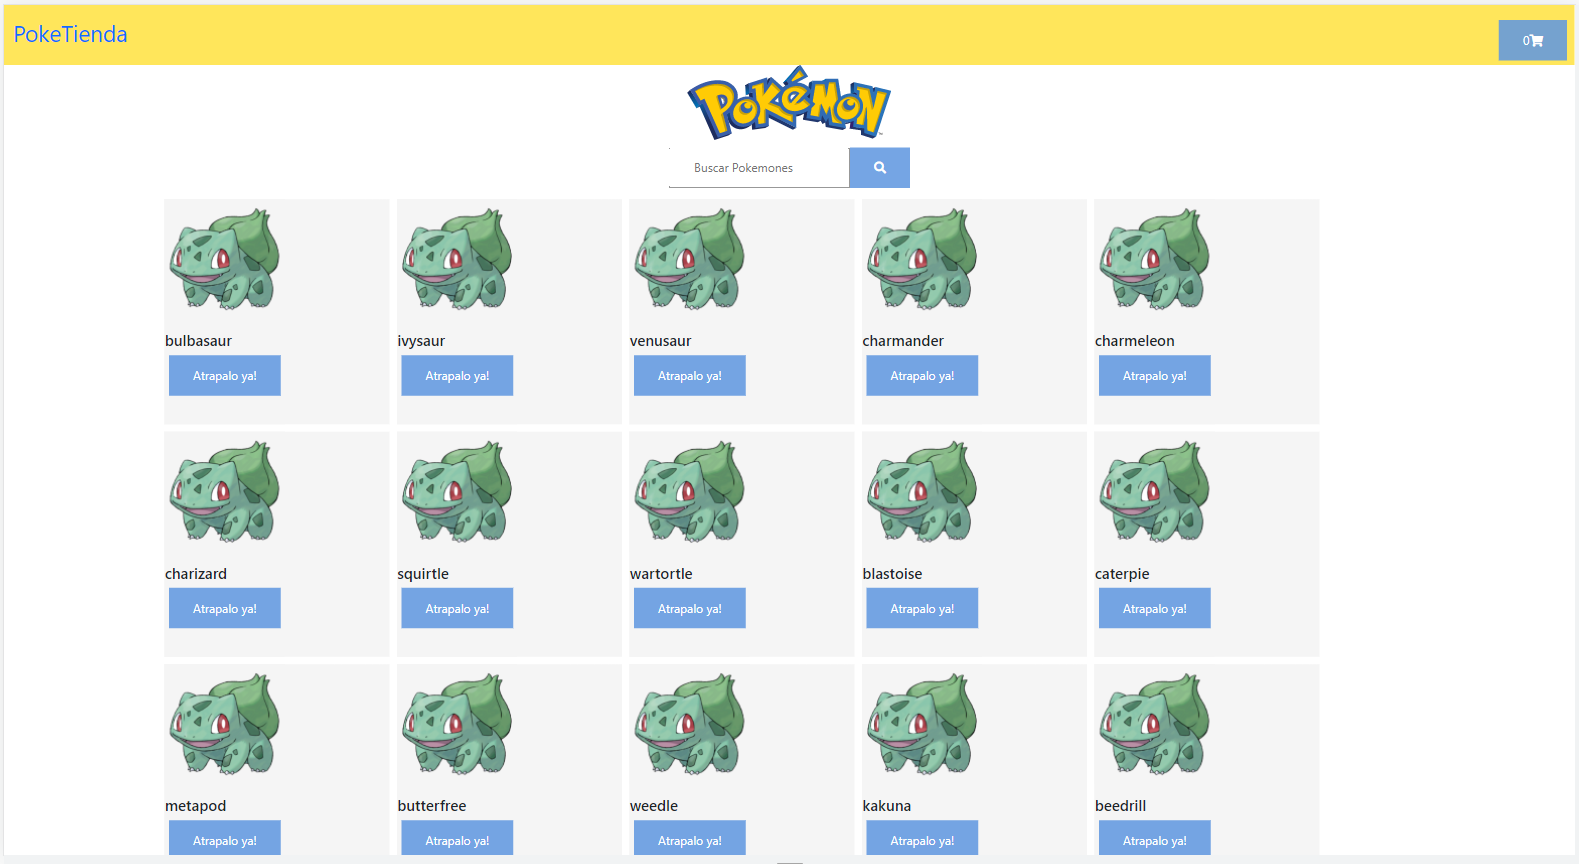
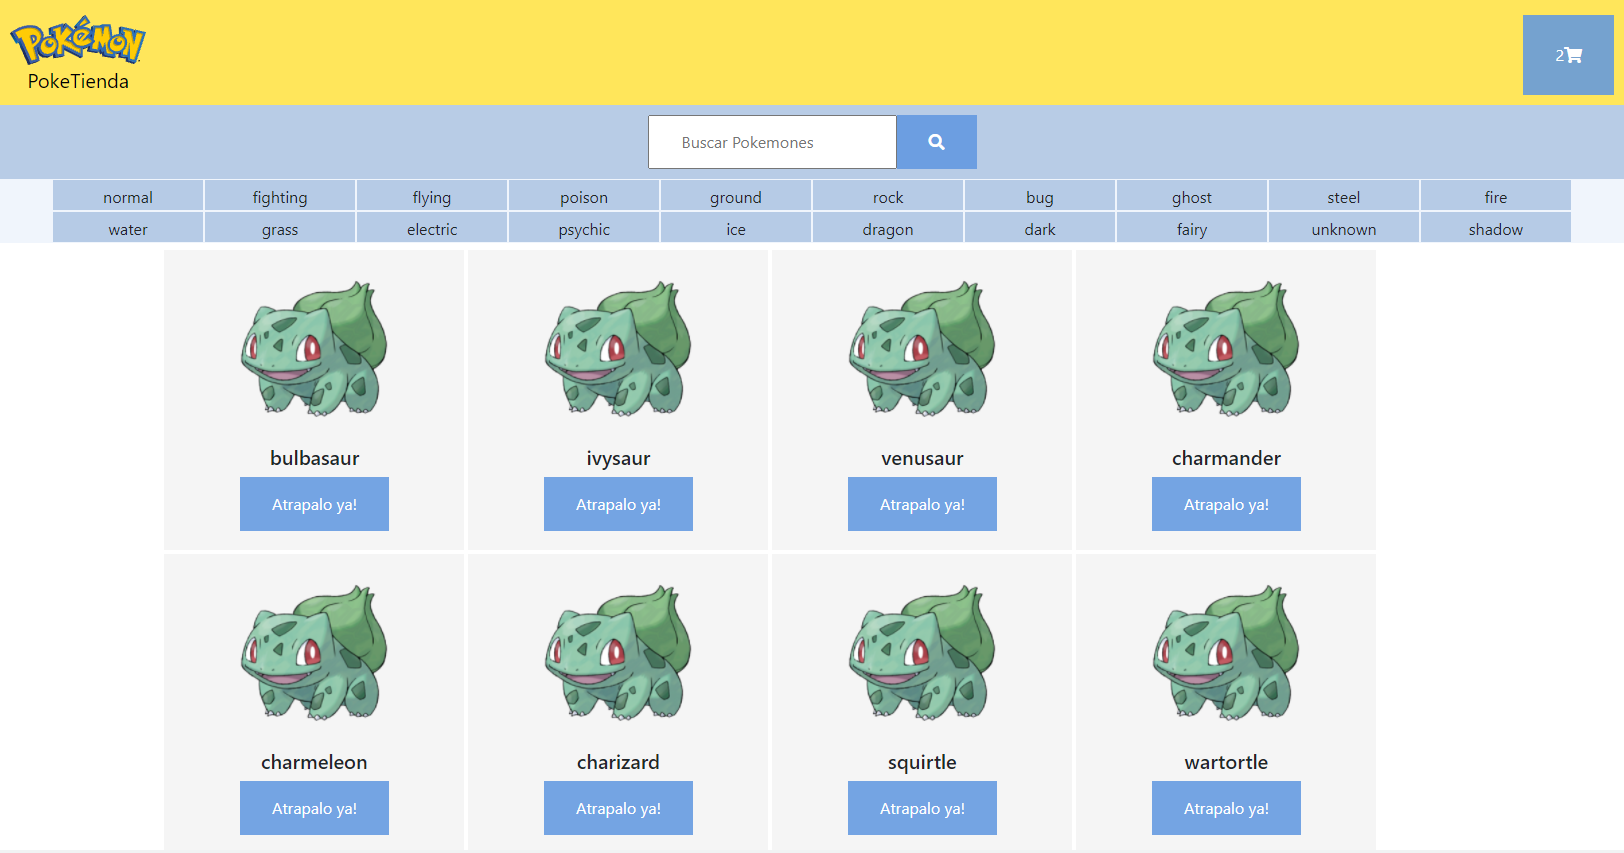
PokeTienda V06 correcciones de generales

diff --git a/src/styles/home.scss b/src/styles/home.scss
@@ -1,17 +1,24 @@
-
-.logo {
-    display: table;
-    margin: 0 auto;
-    padding-top: 10px;
-    padding-bottom: 10px;
-}
-
 .superior{
     margin: auto;
     width: 100%;
     justify-content: center;
     background-color:rgba(174, 196, 226, 0.87);
     display: block;
+}
+.categorias{
+    margin: auto;
+    width: 100%;
+    background-color:rgba(238, 244, 252, 0.87);
+    display: flex;
+    align-items: center;
+    justify-content: center;
+}
+.categoriasgeneral{
+        display: flex;
+        align-items: center;
+        justify-content: center;
+        flex-wrap: wrap;
+        float: left;
 }
 
 .pokemones{
@@ -40,6 +47,20 @@
         justify-content: center;
         text-align: center;
     }
+    .categoriasecciones {
+        width:150px;
+        height:30px;
+        padding: 5px;
+        margin: 1px;
+        margin-bottom: 1px;
+        background-color: rgba(174, 196, 226, 0.87);
+        flex-wrap: wrap;
+        float:left;
+        display: flex;
+        align-items: center;
+        justify-content: center;
+        text-align: center;   
+    }
 }
 /* For mobile and phones: */
 @media(max-width:768px){
@@ -57,16 +78,35 @@
         justify-content: center;
         text-align: center;   
    }
+   .categoriasecciones {
+    width:150px;
+    height:30px;
+    padding: 5px;
+    margin: 1px;
+    margin-bottom: 1px;
+    background-color: rgba(174, 196, 226, 0.87);
+    flex-wrap: wrap;
+    float:left;
+    display: flex;
+    align-items: center;
+    justify-content: center;
+    text-align: center;   
 }
 
-
+}
+.seccionestexto{
+    font-size: 16px;
+    display: flex;
+        align-items: center;
+        justify-content: center;
+        text-align: center;
+}
 .busqueda {
     display: flex;
     align-items: center;
     justify-content: center;
     margin: 0 auto;
-    margin-top: 10px;
-    margin-bottom: 10px;
+    padding-top: 10px;
     padding-bottom: 10px;
 }
 .casilla{

diff --git a/src/js/views/home.js b/src/js/views/home.js
@@ -1,30 +1,28 @@
 import React from "react";
 import "../../styles/home.scss";
 import { Pokemones } from "../views/pokemones";
+import { Categorias } from "../views/categorias";
 /* import { Search } from "../component/search"; */
 
 export const Home = () => {
 	return (
-		<div className="superior">
-			<div className="logo">
-				<img
-					className=""
-					src="https://upload.wikimedia.org/wikipedia/commons/9/98/International_Pok%C3%A9mon_logo.svg"
-					height="100px"
-				/>
+		<div>
+			<div className="superior">
+				<div className="busqueda">
+					<input
+						className="casilla"
+						type="search"
+						placeholder="Buscar Pokemones"
+						/* onChange={handleChange} */
+					/>
+					<button type="submit" className="boton">
+						<i className="fas fa-search" />
+					</button>
+				</div>
 			</div>
-			<div className="busqueda">
-				<input
-					className="casilla"
-					type="search"
-					placeholder="Buscar Pokemones"
-					/* onChange={handleChange} */
-				/>
-				<button type="submit" className="boton">
-					<i className="fas fa-search" />
-				</button>
+			<div className="categorias">
+				<Categorias />
 			</div>
-
 			<div className="pokemones">
 				<Pokemones />
 			</div>

diff --git a/src/js/component/navbar.js b/src/js/component/navbar.js
@@ -10,14 +10,21 @@ export const Navbar = () => {
 		<nav className="barra-superior">
 			<div className="nav align-left">
 				<Link to="/">
+					<div className="logo">
+						<img
+							className=""
+							src="https://upload.wikimedia.org/wikipedia/commons/9/98/International_Pok%C3%A9mon_logo.svg"
+							height="50px"
+						/>
+					</div>
 					<span className="titulo">PokeTienda</span>
 				</Link>
 			</div>
 
-			<div className="align-right">
+			<div className="carrodecompra align-right">
 				<Link className="cart-button dropdown">
 					<button
-						className="boton"
+						className="collapsible boton"
 						type="button"
 						id="dropdownMenuButton"
 						data-toggle="dropdown"
@@ -26,10 +33,10 @@ export const Navbar = () => {
 						{store.shoppingCart.length}
 						<i className="fas fa-shopping-cart" />
 					</button>
-					<div className="cart-product">
+					<div className="content cart-product">
 						{store.shoppingCart.map((item, index) => {
 							return (
-								<a key={index} className="" href="#">
+								<a key={index} className="content" href="#">
 									{item}
 									<button
 										className="boton align-left"

diff --git a/src/styles/index.scss b/src/styles/index.scss
@@ -1,25 +1,3 @@
-/* For desktop: */
-/* @media(min-width:768px){
-    .responsive{
-        margin: 0 auto;
-        width: 90%;
-        margin-top: 5px;
-        justify-content: center;
-        background-color:whitesmoke;
-        display: block;
-    }
-} */
-/* For mobile and phones: */
-/* @media(max-width:768px){
-    .responsive{
-        margin: auto;
-        width: 90%;
-        margin-top: 5px;
-        justify-content: center;
-        background-color:whitesmoke;
-        display: block;
-    }
-} */
 .align-left{
     display:flex;
     flex-wrap: wrap;
@@ -45,8 +23,9 @@ A:visited {
     text-decoration: none 
 }
 .titulo{
-    font-size: 30px;
-    margin-left: 2px;
+    font-size: 20px;
+    display: flex;
+    justify-content: center;
 }
 .boton{
     background-color: rgba(96, 152, 224, 0.87);
@@ -55,6 +34,5 @@ A:visited {
     padding: 15px 32px;
     text-align: center;
     text-decoration: none;
-    display: inline-block;
     font-size: 16px;
 }

diff --git a/src/js/store/flux.js b/src/js/store/flux.js
@@ -2,7 +2,9 @@ const getState = ({ getStore, getActions, setStore }) => {
 	return {
 		store: {
 			pokemonList: [],
+			typeList: [],
 			urlPokemon: "https://pokeapi.co/api/v2/pokemon/",
+			urlType: "https://pokeapi.co/api/v2/type/",
 			shoppingCart: [],
 			demo: [
 				{
@@ -39,6 +41,19 @@ const getState = ({ getStore, getActions, setStore }) => {
 				fetch(URL, OBJCONFIG)
 					.then(res => res.json()) //Texto plano
 					.then(data => setStore({ pokemonList: data.results })); //Obtienes los datos
+			},
+			fetchType: () => {
+				const URL = "https://pokeapi.co/api/v2/type/";
+				const OBJCONFIG = {
+					method: "GET",
+					headers: {
+						"Content-type": "aplication/json"
+					}
+				};
+
+				fetch(URL, OBJCONFIG)
+					.then(res => res.json()) //Texto plano
+					.then(data => setStore({ typeList: data.results })); //Obtienes los datos
 			},
 			// Use getActions to call a function within a fuction
 			exampleFunction: () => {

diff --git a/src/js/views/categorias.js b/src/js/views/categorias.js
@@ -1,0 +1,30 @@
+import React, { useState, useEffect, useContext } from "react";
+import { Context } from "../store/appContext";
+import { CardType } from "../component/cardtype";
+
+export const Categorias = () => {
+	const { store, actions } = useContext(Context);
+
+	useEffect(() => {
+		actions.fetchType();
+	}, []);
+
+	return (
+		<div className="">
+			<div className="categoriasgeneral">
+				{store.typeList.map((item, index) => {
+					return (
+						<CardType
+							key={index}
+							title={item.name}
+							/* imagen={item.sprites.front_default} */
+							url={item.url}
+							category={"/vista-detalle/"}
+							id={index}
+						/>
+					);
+				})}
+			</div>
+		</div>
+	);
+};

diff --git a/src/js/component/cardtype.js b/src/js/component/cardtype.js
@@ -1,0 +1,28 @@
+import React, { useContext } from "react";
+import { Context } from "../store/appContext";
+import PropTypes from "prop-types";
+import { Link, useHistory } from "react-router-dom";
+import "../../styles/home.scss";
+
+export const CardType = props => {
+	const { store, actions } = useContext(Context);
+
+	const history = useHistory();
+
+	return (
+		<div>
+			<div className="categoriasecciones">
+				<div className="secciones">
+					<div>
+						<span className="seccionestexto">{props.title}</span>
+					</div>
+				</div>
+			</div>
+		</div>
+	);
+};
+
+CardType.propTypes = {
+	title: PropTypes.string,
+	id: PropTypes.object
+};

diff --git a/src/styles/navbar.scss b/src/styles/navbar.scss
@@ -12,7 +12,6 @@
     justify-content: flex-start; 
     width: 100%;
 }
-
 .cart-button {
     display: flex; 
     justify-content: flex-end; 
@@ -20,7 +19,6 @@
 .dropdown {
     position: relative;
 }
-
 .dropdown-content {
     display: none;
     position: absolute;
@@ -30,15 +28,9 @@
     padding: 12px 16px;
     z-index: 1;
 }
-
 .dropdown:hover .dropdown-content {
     display: block;
 }
 .cart-product{
-    display:flex;
-    flex-wrap: wrap;
-    float:left;
-}
-#dropdownMenuButton{
-    margin-top: 5px;    
+    display:none;
 }

diff --git a/src/js/store/appContext.js b/src/js/store/appContext.js
@@ -23,6 +23,7 @@ const injectContext = PassedComponent => {
 
 		useEffect(() => {
 			state.actions.fetchPokemon(state.store.urlPokemon);
+			state.actions.fetchType(state.store.urlType);
 			/**
 			 * EDIT THIS!
 			 * This function is the equivalent to "window.onLoad", it only runs once on the entire application lifetime

diff --git a/src/styles/card.scss b/src/styles/card.scss
@@ -1,11 +1,8 @@
-
 .compra{
     margin-top: 50px;
     display: table;
     margin: 0 auto;
 }
-
-
 .ficha-body{
     background-color:whitesmoke;
     display: table;
